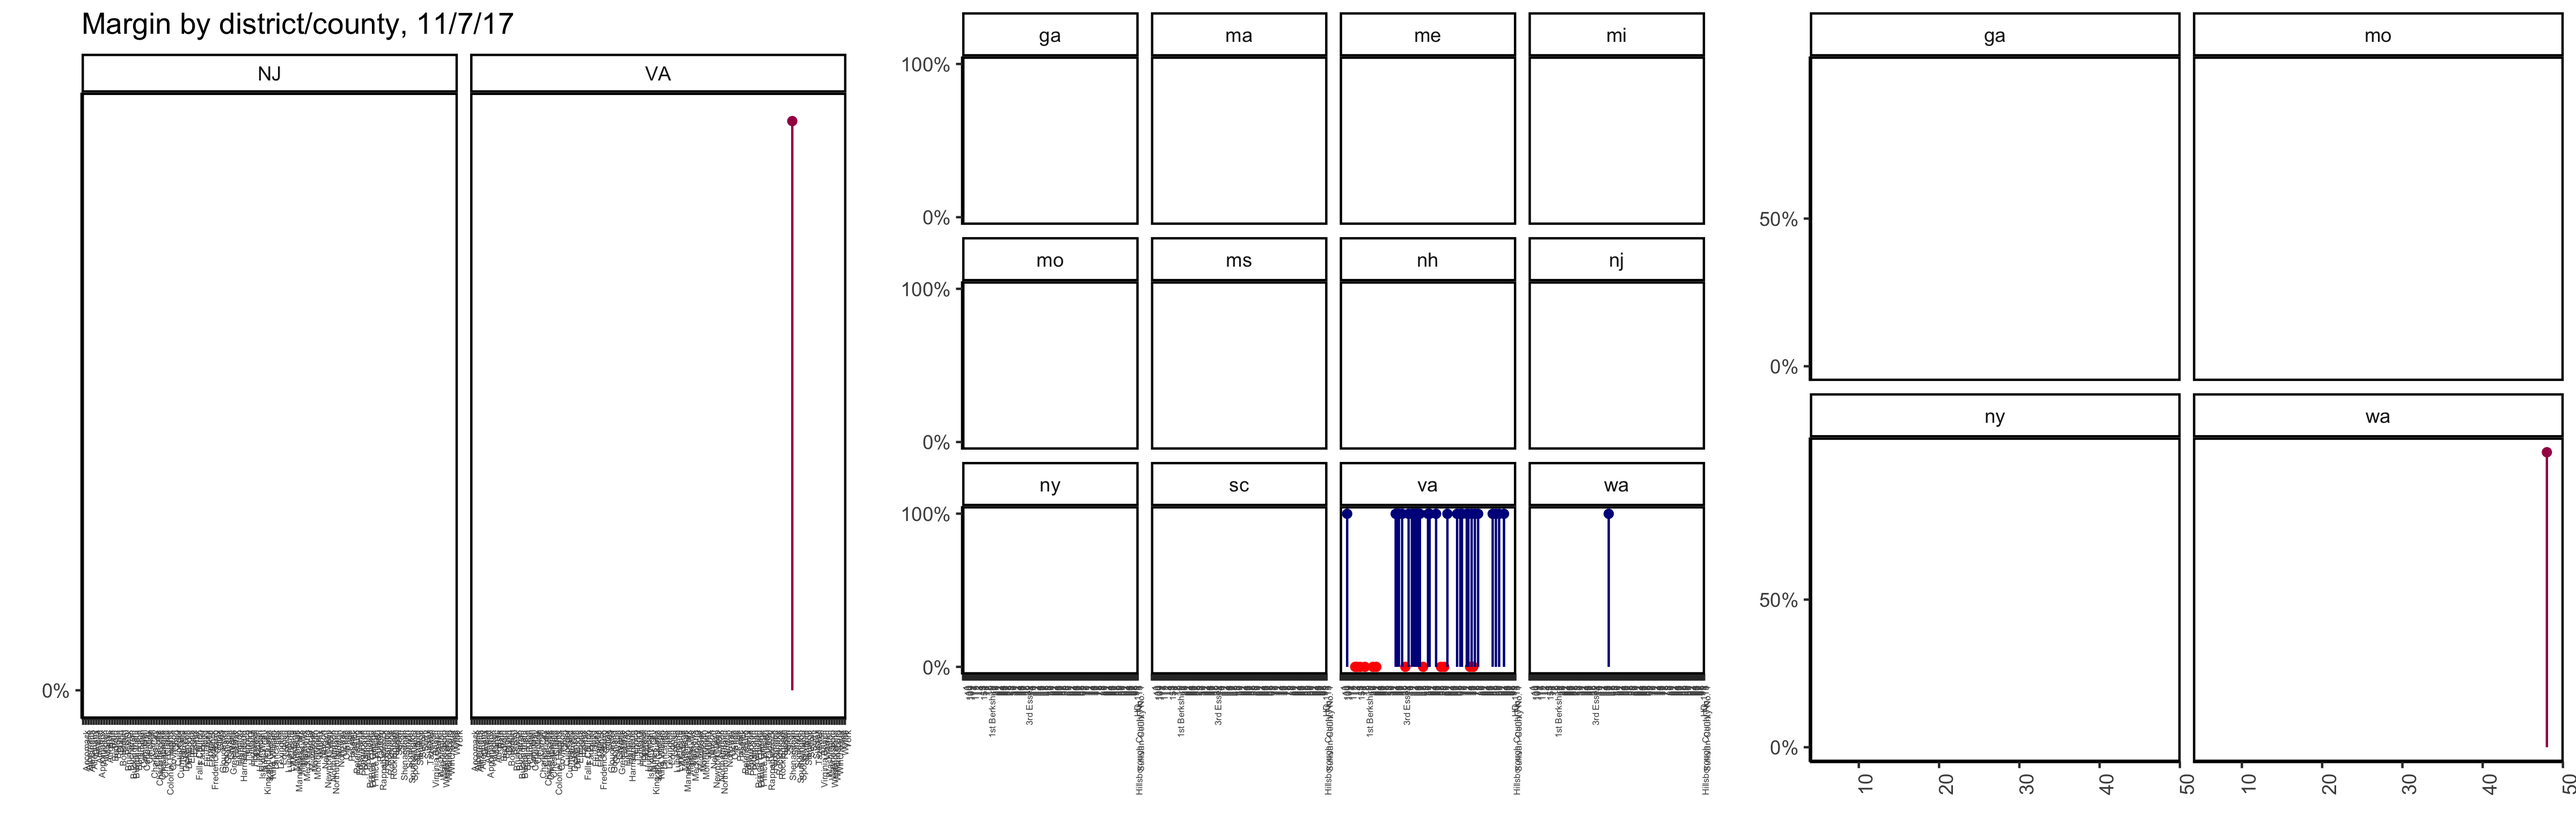
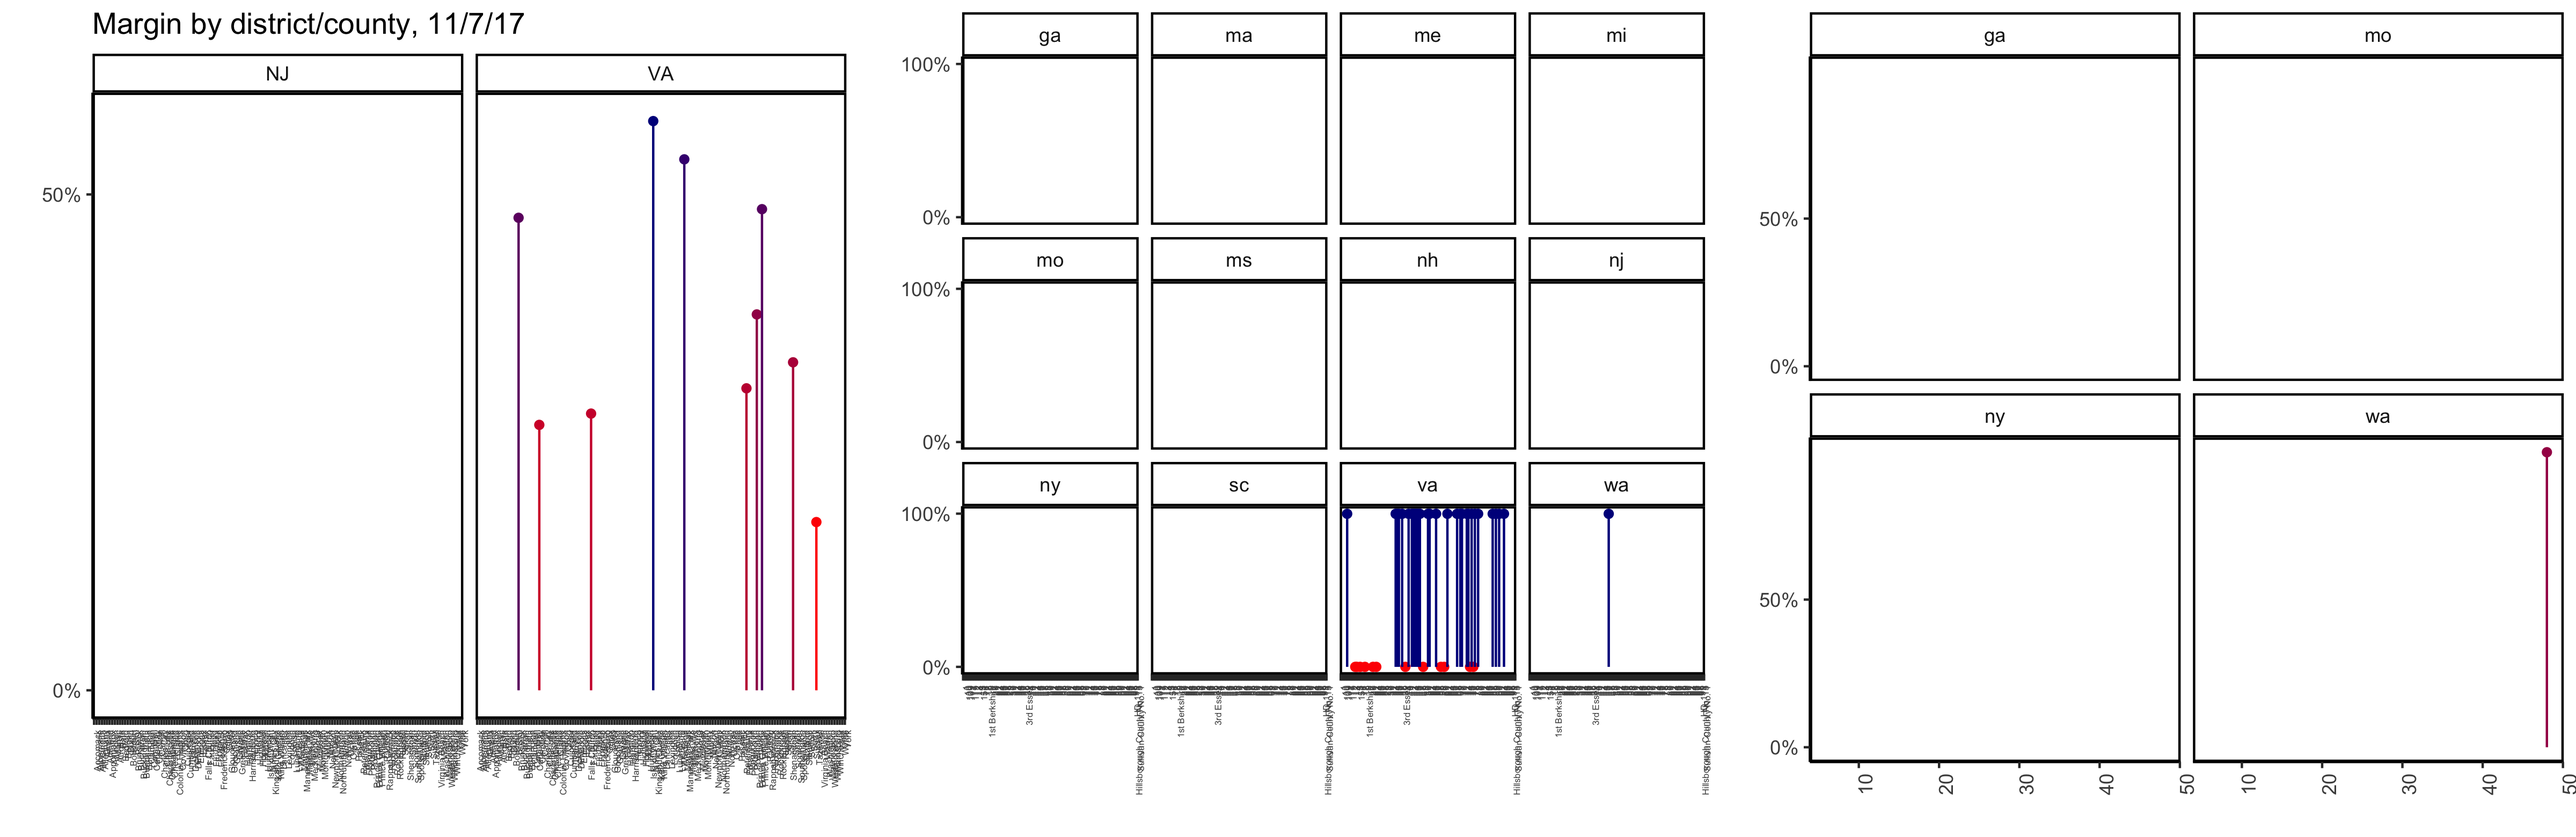
2

diff --git a/_posts/r_election_tracker.md b/_posts/r_election_tracker.md
@@ -77,12 +77,12 @@ Here is the data that goes into these graphs.
 | VA    | Bland            |       -0.5402844|               NA|
 | VA    | Botetourt        |       -0.4316812|               NA|
 | VA    | Bristol          |       -0.3204895|               NA|
-| VA    | Brunswick        |        0.2512726|               NA|
+| VA    | Brunswick        |        0.2512726|        0.4764701|
 | VA    | Buchanan         |       -0.3830236|               NA|
 | VA    | Buckingham       |       -0.0645579|               NA|
 | VA    | Buena Vista      |       -0.2615923|               NA|
 | VA    | Campbell         |       -0.4998990|               NA|
-| VA    | Caroline         |        0.0577084|               NA|
+| VA    | Caroline         |        0.0577084|        0.2676499|
 | VA    | Carroll          |       -0.3974872|               NA|
 | VA    | Charles City     |        0.3059514|               NA|
 | VA    | Charlotte        |       -0.2154824|               NA|
@@ -103,7 +103,7 @@ Here is the data that goes into these graphs.
 | VA    | Fairfax          |        0.2351716|               NA|
 | VA    | Fairfax          |        0.2351716|               NA|
 | VA    | Falls Church     |        0.5103966|               NA|
-| VA    | Fauquier         |       -0.2602176|               NA|
+| VA    | Fauquier         |       -0.2602176|        0.2790318|
 | VA    | Floyd            |       -0.2783705|               NA|
 | VA    | Fluvanna         |       -0.0598147|               NA|
 | VA    | Franklin         |       -0.3558610|               NA|
@@ -126,7 +126,7 @@ Here is the data that goes into these graphs.
 | VA    | Highland         |       -0.3325359|               NA|
 | VA    | Hopewell         |        0.0107179|               NA|
 | VA    | Isle of Wight    |       -0.1496049|               NA|
-| VA    | James City       |       -0.0960956|               NA|
+| VA    | James City       |       -0.0960956|        0.5739740|
 | VA    | King and Queen   |       -0.0411095|               NA|
 | VA    | King George      |       -0.2703220|               NA|
 | VA    | King William     |       -0.2808263|               NA|
@@ -138,7 +138,7 @@ Here is the data that goes into these graphs.
 | VA    | Lunenburg        |       -0.0992908|               NA|
 | VA    | Lynchburg        |       -0.1459984|               NA|
 | VA    | Madison          |       -0.2288862|               NA|
-| VA    | Manassas         |        0.0235939|               NA|
+| VA    | Manassas         |        0.0235939|        0.5354181|
 | VA    | Manassas Park    |        0.1251232|               NA|
 | VA    | Martinsville     |        0.0995533|               NA|
 | VA    | Mathews          |       -0.2625077|               NA|
@@ -157,13 +157,13 @@ Here is the data that goes into these graphs.
 | VA    | Page             |       -0.3046047|               NA|
 | VA    | Patrick          |       -0.4425497|               NA|
 | VA    | Petersburg       |        0.8019360|               NA|
-| VA    | Pittsylvania     |       -0.3662359|               NA|
+| VA    | Pittsylvania     |       -0.3662359|        0.3045169|
 | VA    | Poquoson         |       -0.4834865|               NA|
 | VA    | Portsmouth       |        0.4456580|               NA|
 | VA    | Powhatan         |       -0.4871625|               NA|
-| VA    | Prince Edward    |        0.0856679|               NA|
+| VA    | Prince Edward    |        0.0856679|        0.3790307|
 | VA    | Prince George    |       -0.1665697|               NA|
-| VA    | Prince William   |        0.0862477|               NA|
+| VA    | Prince William   |        0.0862477|        0.4851637|
 | VA    | Pulaski          |       -0.2929736|               NA|
 | VA    | Radford          |        0.0420168|               NA|
 | VA    | Rappahannock     |       -0.0749373|               NA|
@@ -177,7 +177,7 @@ Here is the data that goes into these graphs.
 | VA    | Salem            |       -0.2672237|               NA|
 | VA    | Scott            |       -0.5510758|               NA|
 | VA    | Shenandoah       |       -0.3464711|               NA|
-| VA    | Smyth            |       -0.3580075|         0.330738|
+| VA    | Smyth            |       -0.3580075|        0.3307380|
 | VA    | Southampton      |       -0.0580751|               NA|
 | VA    | Spotsylvania     |       -0.1846539|               NA|
 | VA    | Stafford         |       -0.1531068|               NA|
@@ -185,7 +185,7 @@ Here is the data that goes into these graphs.
 | VA    | Suffolk          |        0.1400295|               NA|
 | VA    | Surry            |        0.2346259|               NA|
 | VA    | Sussex           |        0.1859037|               NA|
-| VA    | Tazewell         |       -0.5211210|               NA|
+| VA    | Tazewell         |       -0.5211210|        0.1696413|
 | VA    | Virginia Beach   |       -0.0211897|               NA|
 | VA    | Warren           |       -0.2677820|               NA|
 | VA    | Washington       |       -0.4346858|               NA|

diff --git a/_posts/2017-11-07-election_tracker.md b/_posts/2017-11-07-election_tracker.md
@@ -94,12 +94,12 @@ Here is the data that goes into these graphs.
 |VA    |Bland            |      -0.5402844|              NA|
 |VA    |Botetourt        |      -0.4316812|              NA|
 |VA    |Bristol          |      -0.3204895|              NA|
-|VA    |Brunswick        |       0.2512726|              NA|
+|VA    |Brunswick        |       0.2512726|       0.4764701|
 |VA    |Buchanan         |      -0.3830236|              NA|
 |VA    |Buckingham       |      -0.0645579|              NA|
 |VA    |Buena Vista      |      -0.2615923|              NA|
 |VA    |Campbell         |      -0.4998990|              NA|
-|VA    |Caroline         |       0.0577084|              NA|
+|VA    |Caroline         |       0.0577084|       0.2676499|
 |VA    |Carroll          |      -0.3974872|              NA|
 |VA    |Charles City     |       0.3059514|              NA|
 |VA    |Charlotte        |      -0.2154824|              NA|
@@ -120,7 +120,7 @@ Here is the data that goes into these graphs.
 |VA    |Fairfax          |       0.2351716|              NA|
 |VA    |Fairfax          |       0.2351716|              NA|
 |VA    |Falls Church     |       0.5103966|              NA|
-|VA    |Fauquier         |      -0.2602176|              NA|
+|VA    |Fauquier         |      -0.2602176|       0.2790318|
 |VA    |Floyd            |      -0.2783705|              NA|
 |VA    |Fluvanna         |      -0.0598147|              NA|
 |VA    |Franklin         |      -0.3558610|              NA|
@@ -143,7 +143,7 @@ Here is the data that goes into these graphs.
 |VA    |Highland         |      -0.3325359|              NA|
 |VA    |Hopewell         |       0.0107179|              NA|
 |VA    |Isle of Wight    |      -0.1496049|              NA|
-|VA    |James City       |      -0.0960956|              NA|
+|VA    |James City       |      -0.0960956|       0.5739740|
 |VA    |King and Queen   |      -0.0411095|              NA|
 |VA    |King George      |      -0.2703220|              NA|
 |VA    |King William     |      -0.2808263|              NA|
@@ -155,7 +155,7 @@ Here is the data that goes into these graphs.
 |VA    |Lunenburg        |      -0.0992908|              NA|
 |VA    |Lynchburg        |      -0.1459984|              NA|
 |VA    |Madison          |      -0.2288862|              NA|
-|VA    |Manassas         |       0.0235939|              NA|
+|VA    |Manassas         |       0.0235939|       0.5354181|
 |VA    |Manassas Park    |       0.1251232|              NA|
 |VA    |Martinsville     |       0.0995533|              NA|
 |VA    |Mathews          |      -0.2625077|              NA|
@@ -174,13 +174,13 @@ Here is the data that goes into these graphs.
 |VA    |Page             |      -0.3046047|              NA|
 |VA    |Patrick          |      -0.4425497|              NA|
 |VA    |Petersburg       |       0.8019360|              NA|
-|VA    |Pittsylvania     |      -0.3662359|              NA|
+|VA    |Pittsylvania     |      -0.3662359|       0.3045169|
 |VA    |Poquoson         |      -0.4834865|              NA|
 |VA    |Portsmouth       |       0.4456580|              NA|
 |VA    |Powhatan         |      -0.4871625|              NA|
-|VA    |Prince Edward    |       0.0856679|              NA|
+|VA    |Prince Edward    |       0.0856679|       0.3790307|
 |VA    |Prince George    |      -0.1665697|              NA|
-|VA    |Prince William   |       0.0862477|              NA|
+|VA    |Prince William   |       0.0862477|       0.4851637|
 |VA    |Pulaski          |      -0.2929736|              NA|
 |VA    |Radford          |       0.0420168|              NA|
 |VA    |Rappahannock     |      -0.0749373|              NA|
@@ -194,7 +194,7 @@ Here is the data that goes into these graphs.
 |VA    |Salem            |      -0.2672237|              NA|
 |VA    |Scott            |      -0.5510758|              NA|
 |VA    |Shenandoah       |      -0.3464711|              NA|
-|VA    |Smyth            |      -0.3580075|              NA|
+|VA    |Smyth            |      -0.3580075|       0.3307380|
 |VA    |Southampton      |      -0.0580751|              NA|
 |VA    |Spotsylvania     |      -0.1846539|              NA|
 |VA    |Stafford         |      -0.1531068|              NA|
@@ -202,7 +202,7 @@ Here is the data that goes into these graphs.
 |VA    |Suffolk          |       0.1400295|              NA|
 |VA    |Surry            |       0.2346259|              NA|
 |VA    |Sussex           |       0.1859037|              NA|
-|VA    |Tazewell         |      -0.5211210|              NA|
+|VA    |Tazewell         |      -0.5211210|       0.1696413|
 |VA    |Virginia Beach   |      -0.0211897|              NA|
 |VA    |Warren           |      -0.2677820|              NA|
 |VA    |Washington       |      -0.4346858|              NA|
